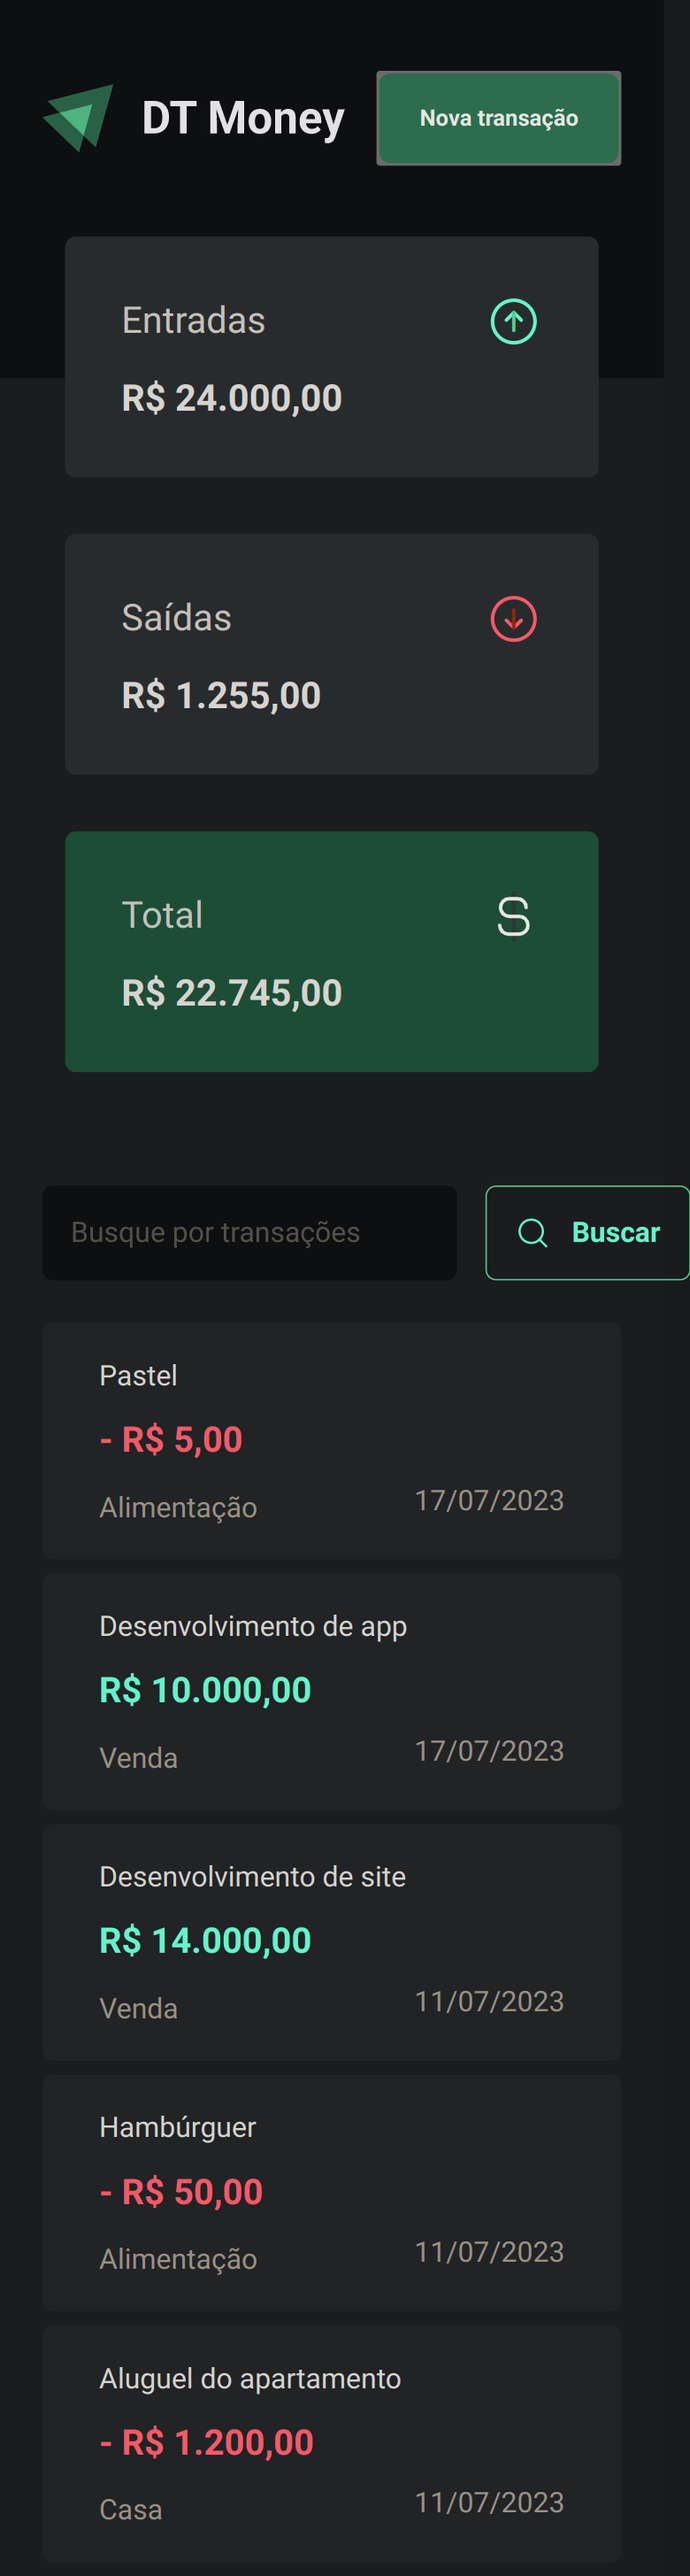
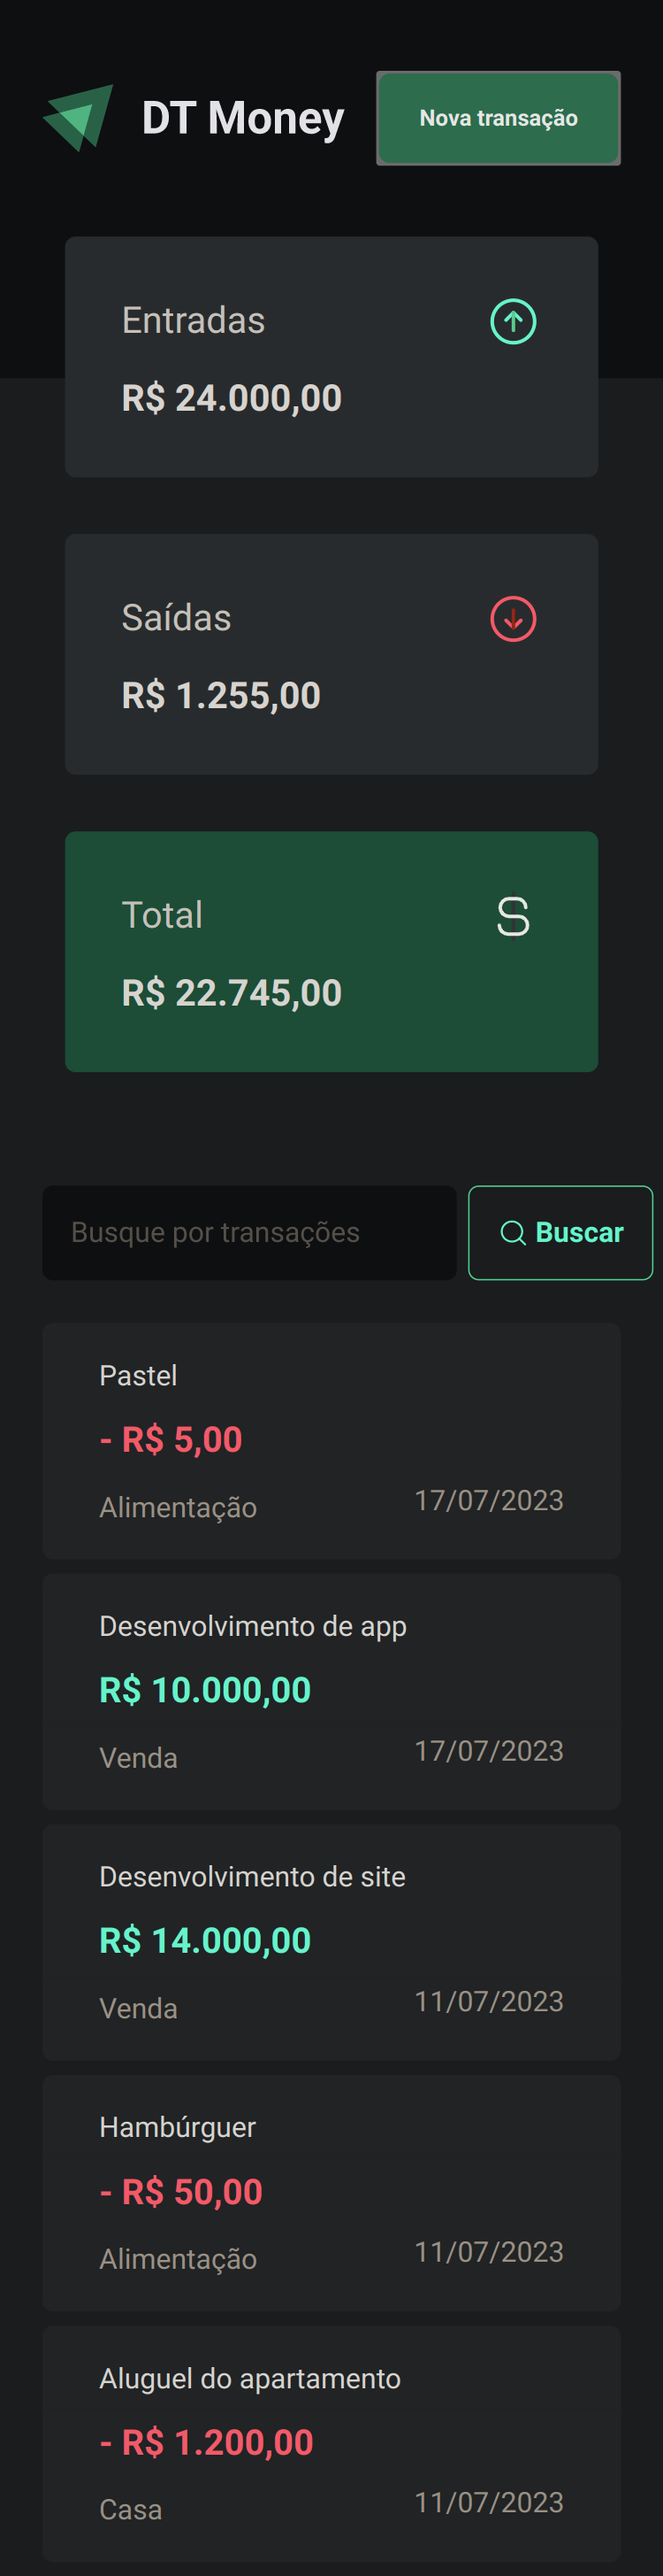
feat(readme): creating readme file

diff --git a/src/pages/Transactions/components/SearchForm/styles.ts b/src/pages/Transactions/components/SearchForm/styles.ts
@@ -42,5 +42,11 @@ export const SearchFormContainer = styled.form`
       color: ${(props) => props.theme.white};
       transition: background-color 0.2s, color 0.2s, border-color 0.2s;
     }
+
+    @media screen and (max-width: 768px) {
+      margin-left: -0.6rem;
+      width: 105px;
+      gap: 0.25rem;
+    }
   }
 `;
